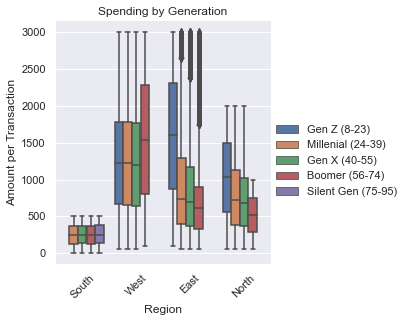
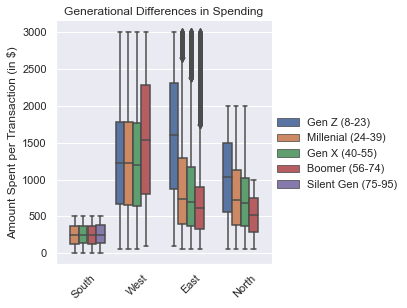
updated plots
output new plots with better axis labels and titles and replaced plots in customer purchasing project pages

diff --git a/content/en/post/customer_purchasing_analysis.md b/content/en/post/customer_purchasing_analysis.md
@@ -339,12 +339,12 @@ df.head()
 abr=sns.catplot(x = 'region_name', y = 'amount', data = df, kind = 'violin',
             aspect = 1.5)
 abr.set_xticklabels( rotation = 45) #argument({'tic 1', 'tic 2',...}, rotation=45)
-abr.fig.suptitle('Regional Spending')
+abr.fig.suptitle('Regional Spending Distributions')
 abr.fig.subplots_adjust(top=0.9)
 abr.set_axis_labels('Region', 'Spending per Transaction')
 ```
 
-{{< figure src="/images/output_60_0.png" >}}
+{{< figure src="/images/blackwell_regional_spending_violin.jpeg" >}}
 
 *Observations*  
 - Are there regional differences in spending? Short answer: *YES*.
@@ -385,9 +385,9 @@ ax1.pie(sizes, explode=explode, labels=labels, autopct='%1.1f%%',
 ax1.axis('equal')  # Equal aspect ratio ensures that pie is drawn as a circle.
 
 #add plot title
-fig1.suptitle('Revenue by Region', fontsize=16)
+fig1.suptitle('% of Total Revenue Contributed by Regin', fontsize=16)
 ```
-{{< figure src="/images/output_67_0.png" >}}
+{{< figure src="/images/blackwell_revenue_byregion_pie.jpeg" >}}
 
 The pie chart nicely illustrates that the West brings in the most revenue and the South brings in the least.
 
@@ -410,7 +410,7 @@ oir.legend.set_title('')
 oir.fig.suptitle("Online vs. In-Store Spending",
                   fontsize=16, fontdict={"weight": "bold"}, y = 1.05)
 ```
-{{< figure src="/images/output_72_0.png" >}}
+{{< figure src="/images/oir_plot.png" >}}
 
 *Observations*
 * The Southern region has *no in-store* sales, and the Northern region has **no online** sales. *This is suspicious and should be investigated further before any conclusions are drawn.*
@@ -437,7 +437,7 @@ Add brief description of discretization and why using it
 - *equal width* — separate all values into 'N' number of bins, each having the same width (i.e. span of values)
 - *equal frequency* — separate the values in 'N' number of bins, each containing the same number of observations.
 - *K-means* — use k-means clustering to to group data.
--->
+
 
 ```python
 #define new discritized age variable, two bins: under 65 and 65+
@@ -458,9 +458,8 @@ ca.legend().set_title('')
 
 * This bar chart tells us that (1) all customers in the Western region are under 65, and the Southern region has the most number of customers over 65. This suggests marketing target at age groups may be more successful in those two regions.
 * That being said, the relatively small size of Blackwell's customer base that is 65+ makes it an area for big potential gains.
+-->
 
-&nbsp;
-### Generational Analysis
 
 ```python
 #define new generation variable
@@ -480,7 +479,7 @@ gen_plot = sns.catplot(data=df,
                   x='region_name', y=None, hue='gen', kind='count',
                       height=4, aspect=1)
 gen_plot.set(xlabel='Region', ylabel='Count',
-            title='Regional Transactions by Age Group')
+            title='Number of Customers by Generation')
 gen_plot.set_xticklabels(rotation=45)
 
 gen_plot.legend.set_title('')
@@ -488,7 +487,7 @@ gen_plot.legend.set_title('')
 gen_plot.savefig('pic_gen_plot.png')
 ```
 
-{{< figure src="/images/output_80_0.png" >}}
+{{< figure src="/images/blackwell_generational_count_byregion.jpeg" >}}
 
 *Observations*
 * All customers of the Silent Generation are in the South.
@@ -496,7 +495,7 @@ gen_plot.savefig('pic_gen_plot.png')
 * There are no Gen Z customers in the South.
 
 ### *Generational differences in spending?*
-
+<!--
 ```python
 #violin plot of spending by customers under 65 and 65+ in each region
 car = sns.catplot(data=df, kind='violin',
@@ -510,7 +509,8 @@ car.fig.suptitle("Customer Spending by Age: Under 65 vs 65+",
 #car.fig.legend(title="", labels=['Online', 'In-store'])
 car.legend.set_title('')
 ```
-{{< figure src="/images/output_87_0.png" >}}
+-->
+{{< figure src="/images/gen_spending_plot.png" >}}
 
 <!--
 ```python

diff --git a/content/en/post/creditone_project.md b/content/en/post/creditone_project.md
@@ -6,7 +6,7 @@ title: "Credit Risk Assessment with Python"
 show_reading_time: true
 show_date: false
 ---
-The prescribed objective for this project was to outline and then implement a data science process—like CRISP-DM—resulting in a model that could reliably predict whether or not a customer would default on their loan(s) from their demographic information, as well as six months worth of data on their billing and payment history.  
+The objective for this project was to outline and then implement a data science process—like CRISP-DM—to obtain, clean/process, and explore customer credit data  resulting in a model that could reliably predict whether or not a customer would default on their loan(s) from their demographic information, as well as six months worth of data on their billing and payment history.  
 
 <!--
 ```python
